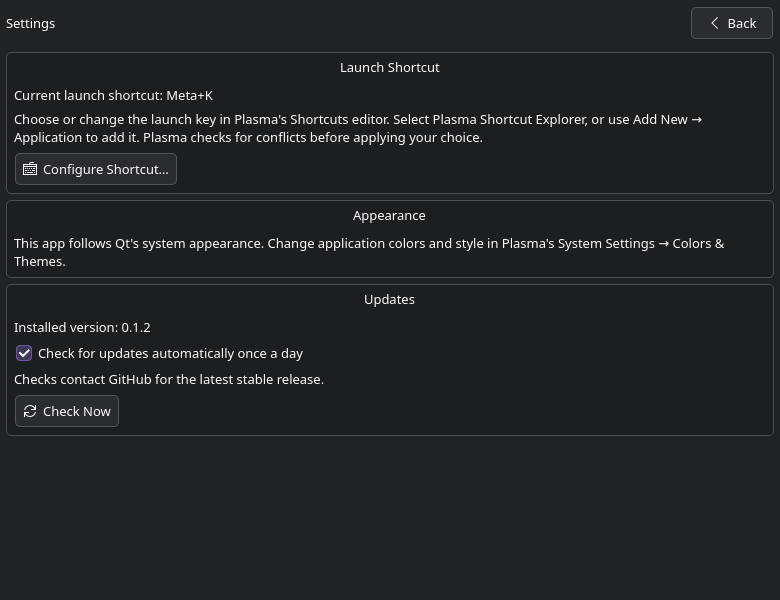
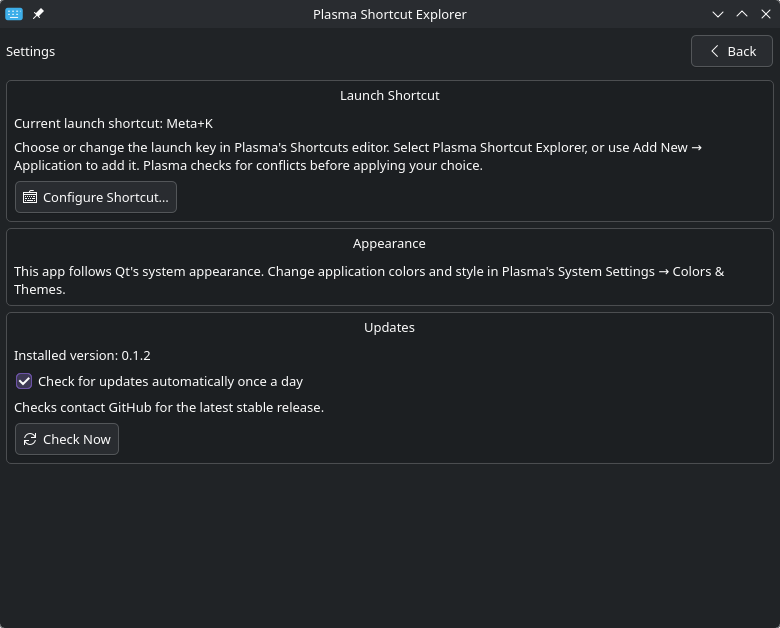
Capture and verify KWin window decorations in screenshots

diff --git a/docs/ui-design.md b/docs/ui-design.md
@@ -39,10 +39,10 @@ and dark window colors. Discovery integration tests use the isolated private bus
 The updated screenshots were captured from the source app running in the live
 Plasma Wayland session with the installed Breeze widget style and the user's
 current theme, font, and icons. Discovery returned 123 assigned shortcuts without
-errors. The search screenshot uses the query `window`. The captures use Qt's
-window grab and show client content; compositor titlebars and borders are outside
-these images. Launching on Wayland does not by itself verify interactive edge
-resizing, task switching, or placement across monitors; those remain manual checks.
+errors. The search screenshot uses the query `window`. The captures use Spectacle's active-window mode with decorations included.
+Visual inspection confirms the KWin titlebar, app icon, and minimize, maximize,
+and close controls in both views. Interactive edge resizing, task switching, and
+placement across monitors remain manual checks.
 
 No shortcut settings, system appearance settings, or window rules are changed by
 this interface revision.
